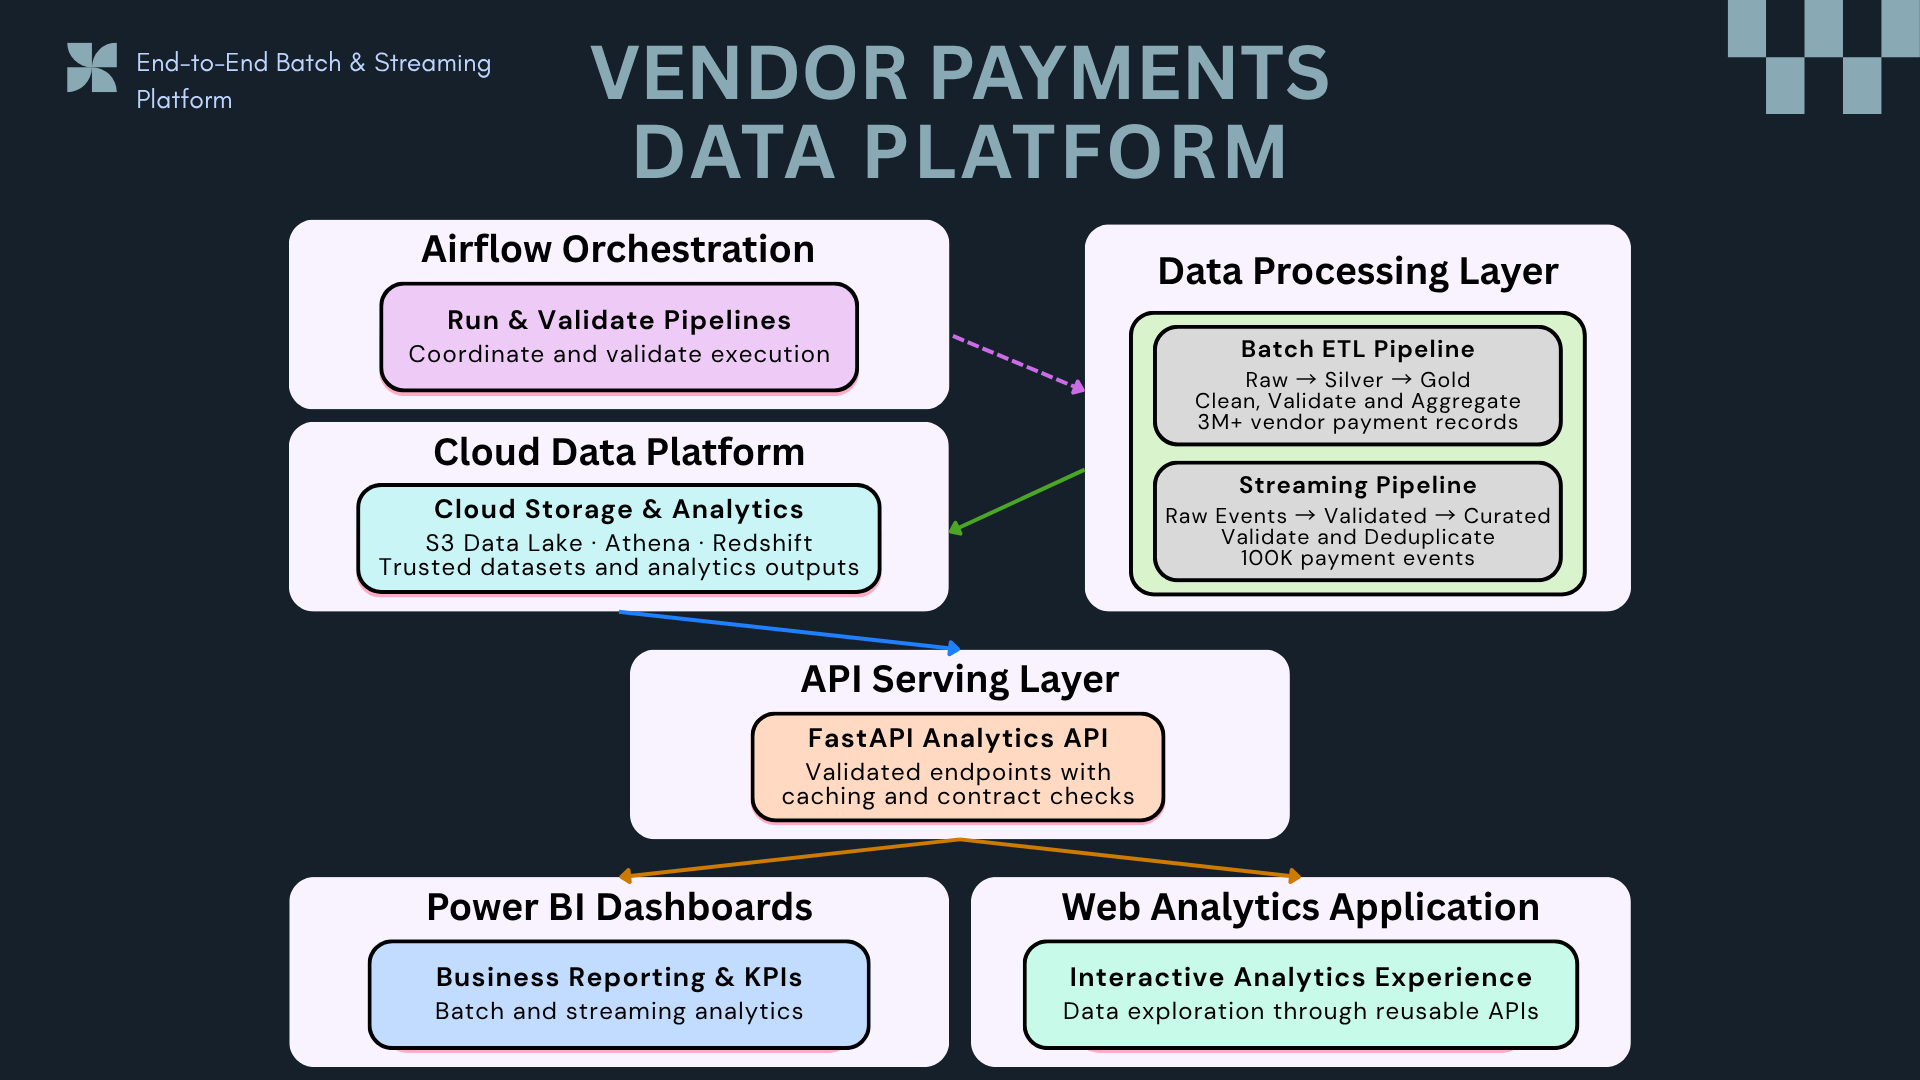
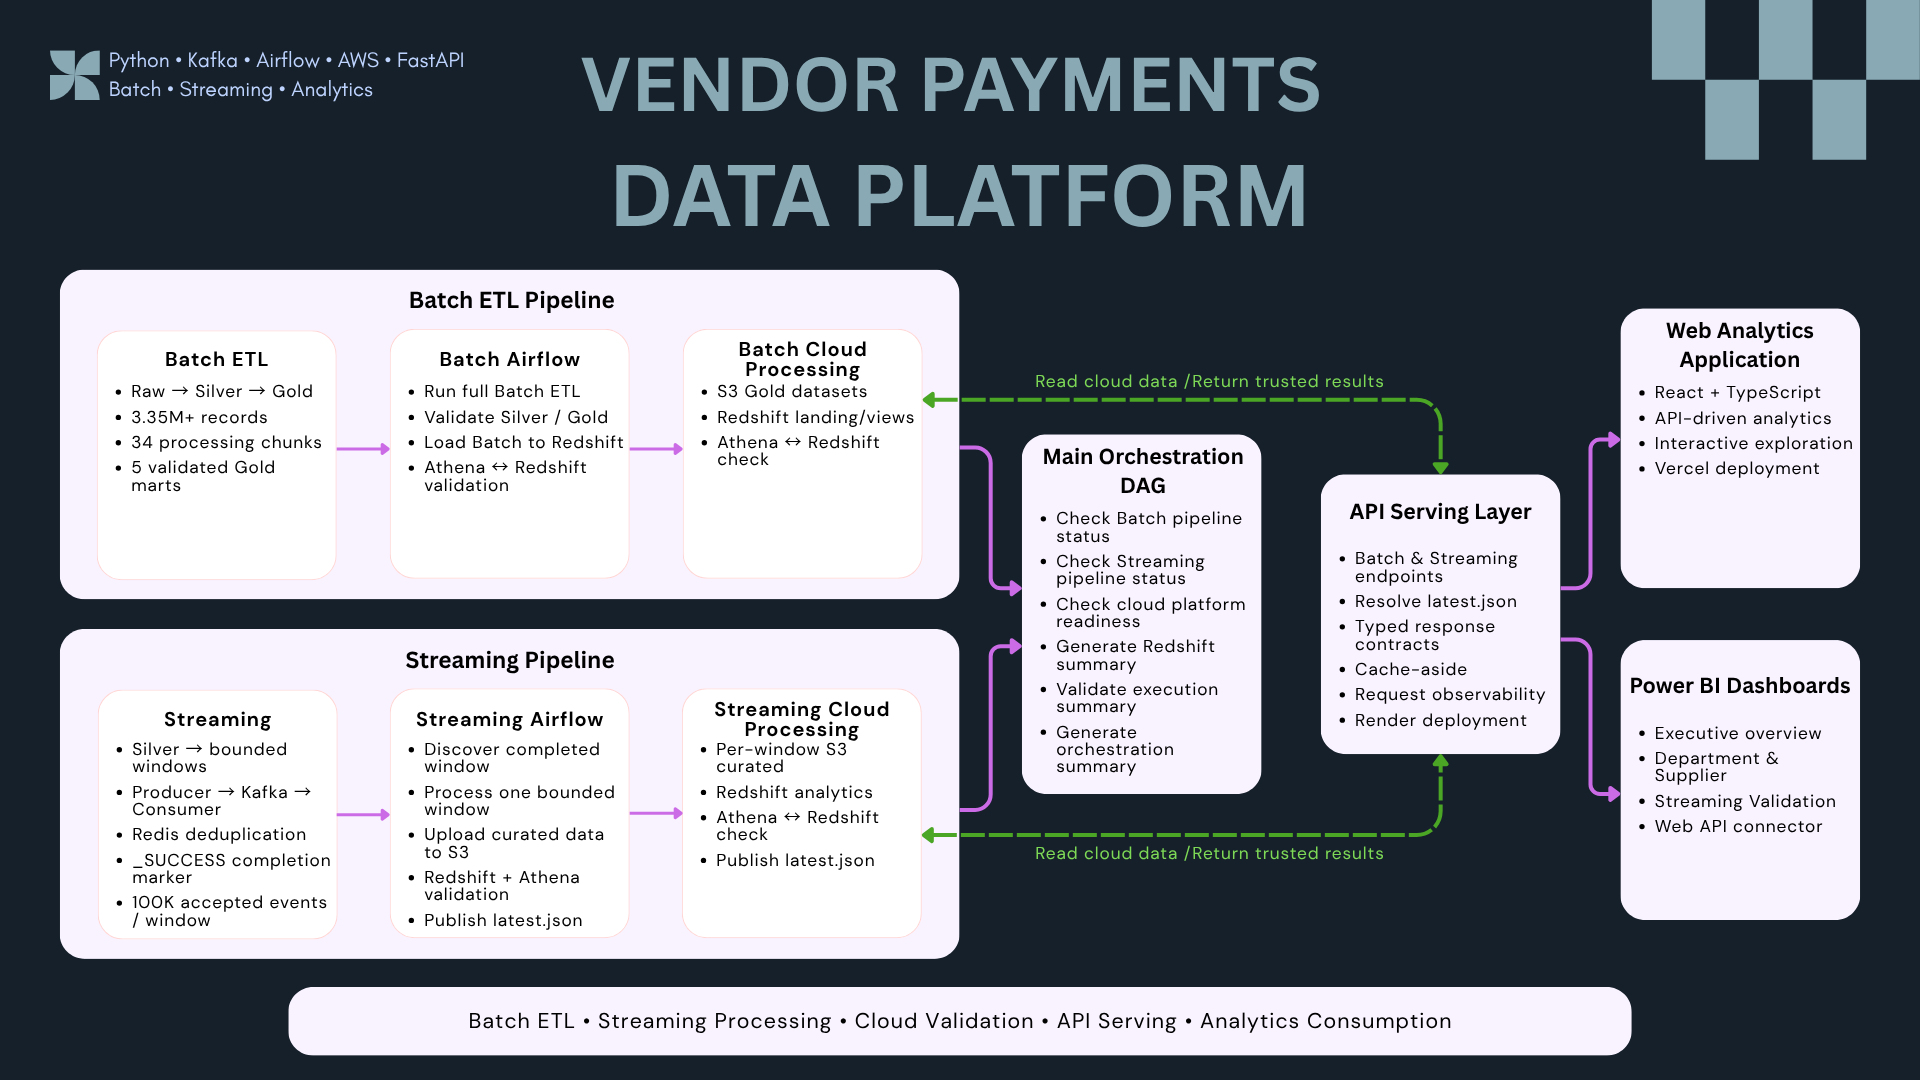
docs: refresh integrated platform architecture

diff --git a/web/vendor-payments-analytics/src/pages/ProjectOverviewPage.tsx b/web/vendor-payments-analytics/src/pages/ProjectOverviewPage.tsx
@@ -47,7 +47,7 @@ description:
 icon: Cloud,
 title: 'Cloud Analytics Platform',
 description:
-'Publishes trusted Batch and Streaming datasets to Amazon S3 and Redshift Serverless for downstream analytics and validation.',
+'Publishes trusted Batch and per-window Streaming datasets to Amazon S3, validates S3 and Redshift metrics through Athena, and exposes trusted warehouse analytics.',
 },
 {
 icon: Server,
@@ -194,16 +194,16 @@ return ( <div className="overview-page"> <section className="hero-section"> <div
       <h2>Five integrated projects, one analytics platform</h2>
 
       <p>
-        The architecture connects trusted Batch and Streaming processing
-        with Airflow orchestration, Amazon S3 and Redshift Serverless,
+        The architecture connects independent Batch and Streaming pipelines
+        with Airflow orchestration, Amazon S3, Athena, and Redshift Serverless,
         a reusable FastAPI serving layer, and downstream analytics applications.
-      </p>
+       </p>
     </div>
 
     <figure className="architecture-card">
       <img
         src="/images/00_vendor-payments-data-platform-overview.png"
-        alt="Vendor Payments Data Platform architecture showing Airflow orchestration, Batch and Streaming processing, AWS cloud analytics, FastAPI serving, Power BI dashboards, and the Web Analytics Application."
+        alt="Vendor Payments Data Platform architecture showing independent Batch and Streaming pipelines, Airflow orchestration, AWS S3, Athena and Redshift analytics, FastAPI serving, Power BI dashboards, and the React Web Analytics Application."
       />
 
       <figcaption>
